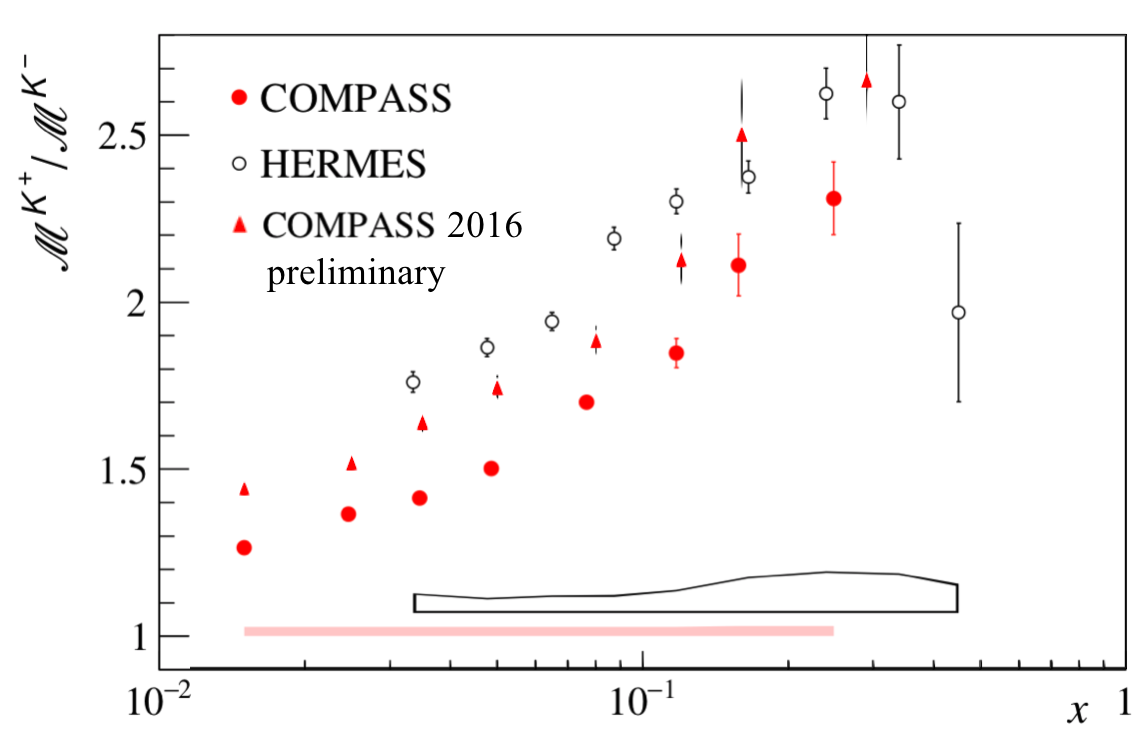
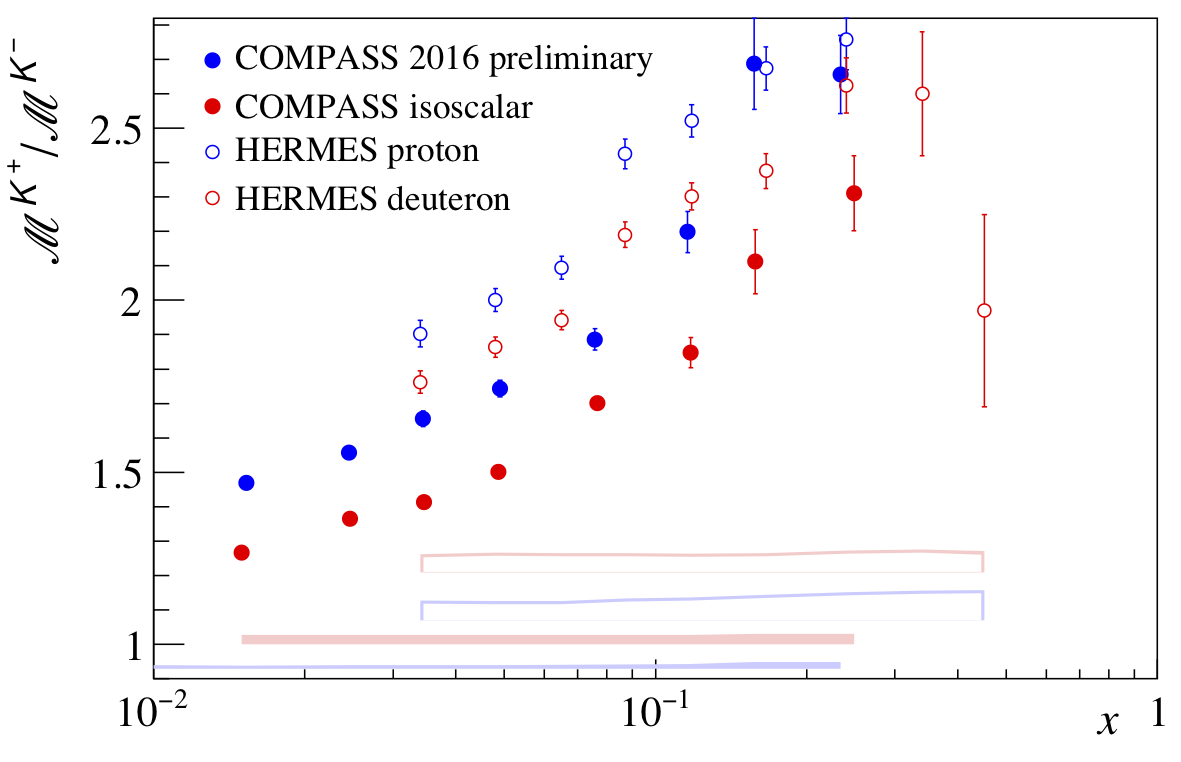
Fix.

diff --git a/ReleaseNote/ReleaseNote.tex b/ReleaseNote/ReleaseNote.tex
@@ -13,6 +13,7 @@
 \usepackage[margin=1in,letterpaper]{geometry} % decreases margins
 \usepackage{cite} % takes care of citations
 \usepackage[final]{hyperref} % adds hyper links inside the generated pdf file
+\usepackage{mathrsfs}
 \hypersetup{
 	colorlinks=true,       % false: boxed links; true: colored links
 	linkcolor=blue,        % color of internal links
@@ -99,7 +100,7 @@ The PHAST version used for this analysis is 8.001.
 	\item $\chi^2$ cut for a well reconstructed scattered muon track ($\chi^2$/ndf $<$ 10)
 	\item Z coordinate of the first measured hit of scattered muon $<$ 350 cm ($Z_{SM1}$)
 	\item Middle Trigger or Ladder Trigger or Outer Trigger or LAS trigger
-	\item $Q^2$ > 1 (GeV/c)$^2$
+	\item $Q^2$ $>$ 1 (GeV/c)$^2$
 	\item 0.1 $< y <$ 0.7
 	\item 5 $< W <$ 17
 	\item 0.004 $< x <$ 0.4
@@ -165,7 +166,7 @@ For reference this is half the statistic of 2006.
 
 The $\pi$, $K$ and $p$ particle identification (PID) is performed by the RICH detector.
 
-The method used for the RICH particle identification is described in this note\cite{RICH_NOTE}. The idea is the following : when a particle
+The method used for the RICH particle identification is described in ref\cite{RICH_NOTE}. The idea is the following : when a particle
 is detected, six likelihood functions are calculated ($\pi$, $K$, $p$, $e$, $\mu$ and the background) and are then
 compared to make the particle identification. The evaluation is done separately for pions, kaons and protons. The largest
 value corresponds to the maximal probability. The method is improved by looking further to $LH(2^{nd})$ which is the second
@@ -179,16 +180,16 @@ All $\pi$, $K$ and $p$ probabilities are needed for the unfolding.
   \item Pion selection
   \begin{itemize}
     \item $LH(\pi) > 0$
-    \item $LH(\pi) > LH(K)$, $LH(p)$ and $LH(bgd)$.
+    \item $LH(\pi) > LH(K)$, $LH(p)$ and $LH(bg)$.
     \item $\frac{LH(\pi)}{LH(2^{nd})}>1.02$
-    \item $\frac{LH(\pi)}{LH(bgd)}>2.02$
+    \item $\frac{LH(\pi)}{LH(bg)}>2.02$
   \end{itemize}
   \item Kaon selection
   \begin{itemize}
     \item $LH(K) > 0$
-    \item $LH(K) > LH(\pi)$, $LH(p)$ and $LH(bgd)$.
+    \item $LH(K) > LH(\pi)$, $LH(p)$ and $LH(bg)$.
     \item $\frac{LH(K)}{LH(2^{nd})}>1.08$
-    \item $\frac{LH(K)}{LH(bgd)}>2.08$
+    \item $\frac{LH(K)}{LH(bg)}>2.08$
   \end{itemize}
   \item Proton selection
   Three cases are considered depending on the momentum $p_{h}$ of the particle and are defined but the kaon threshold ($\simeq 8.9$ GeV/c)
@@ -211,7 +212,7 @@ All $\pi$, $K$ and $p$ probabilities are needed for the unfolding.
     \item $p_{h} >$ proton threshold + 5 GeV/c
     \begin{itemize}
       \item $LH(p) > 0$
-      \item $LH(p) > LH(\pi)$, $LH(K)$ and $LH(bgd)$.
+      \item $LH(p) > LH(\pi)$, $LH(K)$ and $LH(bg)$.
       \item $\frac{LH(p)}{LH(2^{nd})}>1$
     \end{itemize}
     \item Proton threshold - 5 GeV/c $< p_{h} <$ proton threshold + 5 GeV/c
@@ -232,7 +233,7 @@ this evaluation is presented through RICH performance matrices, $M_{RICH}$, binn
 and angle :
 
 \begin{itemize}
-  \item $p_h$ \{3,12,13,15,17,19,22,25,27,30,35,40\} GeV/c
+  \item $p_h$ \{12,13,15,17,19,22,25,27,30,35,40\} GeV/c
   \item $\theta$ \{0.01,0.04,0.12\} rad
 \end{itemize}
 
@@ -259,7 +260,7 @@ T_p
 \end{equation}
 
 The coefficients of the $M_{RICH}$, $\epsilon(t \rightarrow i)$, are the probabilities that a true hadron
-$t$ is identified as a hadron of type $i$. These probabilities have been determined as described in \ref{}.
+$t$ is identified as a hadron of type $i$. These probabilities have been determined as described in ref\cite{RICH_NOTE}.
 
 The true hadrons have obtained by inverting the performance matrices (Eq.\ref{richmat}) :
 
@@ -439,7 +440,7 @@ Monte Carlo study. Three Monte Carlo samples are produced based on different gen
 the same event reconstruction chain. For the diffractive vector meson samples, both exclusive events and events with diffractive dissociation of the
 proton are simulated. The $\rho^0$ sample includes nuclear effects (coherent production and nuclear absorption).
 
-The fraction of pions (resp. kaons) resulting from a diffractive $rho^0$ (resp. $\Phi$) is calculated in the same binning as the raw multiplicities as :
+The fraction of pions (resp. kaons) resulting from a diffractive $\rho^0$ (resp. $\Phi$) is calculated in the same binning as the raw multiplicities as :
 
 \begin{equation}
   \begin{split}
@@ -536,36 +537,64 @@ where $M_{1\gamma}$ denotes multiplicities obtained using the cross-section in t
 
 \subsection{Errors associated to the RICH unfolding}
 
-The RICH matrices are built using the statistical errors associated to the original probability matrix.
+The first stage of pion identification is based on the likelihood ratios : $LH(\pi)/LH(2^{nd})$ and $LH(\pi)/LH(bg)$. These cuts are optimized to minimize the
+pions misidentified as kaons. The systematic error associated to the selection of these cuts is performed varying the cuts around optimized values. Two sets of
+cuts \textit{loose} and \textit{severe} were used (see Table \ref{loose.severe})
+
+\begin{table}[!h]
+	\centering
+	\begin{tabular}{ccccccc}
+		\hline
+		 & \multicolumn{3}{c}{Loose} & \multicolumn{3}{c}{Severe} \\
+		\hline
+		 & $\pi$ & $K$ & $p(\bar{p})$ & $\pi$ & $K$ & $p(\bar{p})$ \\
+		\hline
+		$\frac{LH(\pi)}{LH(2^{nd})}$ & $> 1.00$ & $-$ & $-$ & $>1.06$ & $-$ & $-$ \\
+		$\frac{LH(\pi)}{LH(bg)}$ & $> 2.00$ & $-$ & $<2.3$ $(2.2)$ & $>2.04$ & $-$ & $<2.0$ $(1.9)$ \\
+		$\frac{LH(K)}{LH(2^{nd})}$ & $-$ & $>1.06$ & $-$ & $>-$ & $>1.10$ & $-$ \\
+		$\frac{LH(K)}{LH(bg)}$ & $-$ & $>2.00$ & $<3.0$ $(2.9)$ & $-$ & $>2.16$ & $<2.7$ $(2.6)$ \\
+		$\frac{LH(p)}{LH(2^{nd})}$ & $-$ & $>0.98$ & $-$ & $>-$ & $>1.06$ & $-$ \\
+		\hline
+	\end{tabular}
+  \caption{Set of loose and severe cuts to evaluate the RICH systematic errors.}
+  \label{loose.severe}
+\end{table}
+
+To evaluate the systematic error associated to the selection of the particle likelihood cuts, the particle identification is performed using the \textit{loose}
+and \textit{severe} sets of likelihood cuts and the corresponding RICH probability matrices and final multiplicities are extracted ($M^{h^{\pm},loose}_{raw}$
+and $M^{h^{\pm},severe}_{raw}$ respectively). The largest difference between $M^{h^{\pm},loose}_{raw}$ and $M^{h^{\pm},severe}_{raw}$ with the nominal
+multiplicity $M^{h^{\pm}}_{raw}$ is taken as an estimate of the systematic error :
 
 \begin{equation}
-M^{\pm}_{RICH}
-=
-\begin{bmatrix}
-\epsilon(\pi \rightarrow \pi)\pm\sigma_{\epsilon(\pi \rightarrow \pi)} & \epsilon(K \rightarrow \pi)\pm\sigma_{\epsilon(K \rightarrow \pi)} & \epsilon(p \rightarrow \pi)\pm\sigma_{\epsilon(p \rightarrow \pi)}\\
-\epsilon(\pi \rightarrow K)\pm\sigma_{\epsilon(\pi \rightarrow K)} & \epsilon(K \rightarrow K)\pm\sigma_{\epsilon(K \rightarrow K)} & \epsilon(p \rightarrow K)\pm\sigma_{\epsilon(p \rightarrow K)} \\
-\epsilon(\pi \rightarrow p)\pm\sigma_{\epsilon(\pi \rightarrow p)} & \epsilon(K \rightarrow p)\pm\sigma_{\epsilon(K \rightarrow p)} & \epsilon(p \rightarrow p)\pm\sigma_{\epsilon(p \rightarrow p)}
-\end{bmatrix}
+  \sigma^{RICH_{LH}}_{sys} = MAX(|M^{h^{\pm},loose}_{raw}-M^{h^{\pm}}_{raw}|,|M^{h^{\pm},severe}_{raw}-M^{h^{\pm}}_{raw}|)
 \end{equation}
 
-As an inversion of the probabilities matrices is done in the analysis, the propagation of errors through the
-inversion operation has to be performed. A calculation of the uncertainties on the probabilities yields \cite{} :
+The difference between the altered RICH probability matrices and the optimal one are plotted in Fig.\ref{}. For pions and protons, the largest differences
+($<$5\%) are observed in the high momentum $p_h$ region. For kaons the difference reaches 4\% at low $p_h$ ; small differences ($<$1\%) are observed at the
+highest $p_h$ value.
+
+A second source of systematic error is that associated with the calculation of the RICH probability matrices. This is estimated by generating two sets of altered
+RICH probability matrices. As represented in Eq.\ref{StatMat} the matrices are constructe using the statistical error associated to the original probability matrix elements.
 
 \begin{equation}
-  [\sigma^{-1}_i]^2 = \epsilon^{-1}_{ip}\epsilon^{-1}_{ir}cov(\epsilon_{pq},\epsilon_{rs})\epsilon^{-1}_{qi}\epsilon^{-1}_{si} + [\epsilon^{-1}_{ik}\sigma_k]^2
+  M^{\pm}_{RICH}
+  =
+  \begin{bmatrix}
+  P(\pi \rightarrow \pi)\pm\sigma_{P(\pi \rightarrow \pi)} & P(K \rightarrow \pi)\mp\sigma_{P(K \rightarrow \pi)} & P(p \rightarrow \pi)\mp\sigma_{P(p \rightarrow \pi)}\\
+  P(\pi \rightarrow K)\mp\sigma_{P(\pi \rightarrow K)} & P(K \rightarrow K)\pm\sigma_{P(K \rightarrow K)} & P(p \rightarrow K)\mp\sigma_{P(p \rightarrow K)} \\
+  P(\pi \rightarrow p)\mp\sigma_{P(\pi \rightarrow p)} & P(K \rightarrow p)\mp\sigma_{P(K \rightarrow p)} & P(p \rightarrow p)\pm\sigma_{P(p \rightarrow p)}
+  \end{bmatrix}
+	\label{StatMat}
 \end{equation}
 
-This equation leads to the inverse error matrices with associated statistical errors :
+The raw multiplicities $M^{h^{\pm},+}_{raw}$ and $M^{h^{\pm},-}_{raw}$ are then recalculated using the altered probability matrices. The largest difference between
+$M^{h^{\pm},+}_{raw}$ and $M^{h^{\pm},-}_{raw}$ with $M^{h^{\pm}}_{raw}$ is taken as the sytematic error :
 
 \begin{equation}
-[M^{\pm}_{RICH}]^{-1}
-=
-\begin{bmatrix}
-\epsilon^{-1}(\pi \rightarrow \pi)\pm\sigma^{-1}_{\epsilon(\pi \rightarrow \pi)} & \epsilon^{-1}(K \rightarrow \pi)\pm\sigma^{-1}_{\epsilon(K \rightarrow \pi)} & \epsilon^{-1}(p \rightarrow \pi)\pm\sigma^{-1}_{\epsilon(p \rightarrow \pi)}\\
-\epsilon^{-1}(\pi \rightarrow K)\pm\sigma^{-1}_{\epsilon(\pi \rightarrow K)} & \epsilon^{-1}(K \rightarrow K)\pm\sigma^{-1}_{\epsilon(K \rightarrow K)} & \epsilon^{-1}(p \rightarrow K)\pm\sigma^{-1}_{\epsilon(p \rightarrow K)} \\
-\epsilon^{-1}(\pi \rightarrow p)\pm\sigma^{-1}_{\epsilon(\pi \rightarrow p)} & \epsilon^{-1}(K \rightarrow p)\pm\sigma^{-1}_{\epsilon(K \rightarrow p)} & \epsilon^{-1}(p \rightarrow p)\pm\sigma^{-1}_{\epsilon(p \rightarrow p)}
-\end{bmatrix}
+  \sigma^{RICH_{stat}}_{sys} = MAX(|M^{h^{\pm},+}_{raw}-M^{h^{\pm}}_{raw}|,|M^{h^{\pm},-}_{raw}-M^{h^{\pm}}_{raw}|)
 \end{equation}
+
+The final systematic uncertainty associated to the particle identification and unfolding correction ($\sigma^{RICH}_{sys}$) is the largest value of $\sigma^{RICH_{stat}}_{sys}$ and $\sigma^{RICH_{LH}}_{sys}$. The error goes from $<$ 0.2\% at low $y$ for all $x$ and $z$ bins to $\sim$ 20\% for high $y$ and high $z$, where multiplicities are low.
 
 \subsection{Errors associated to acceptance (z-vertex dependence)}
 
@@ -623,9 +652,17 @@ The actual results are presented in Figs. \ref{Ks} and \ref{Kr}. The data are in
 \section{Release Material} \label{RM}
 
 \begin{figure}[H]
-	\includegraphics[scale=0.4]{./gfx/xQ2.png}
+	\centering
+	\includegraphics[scale=0.34]{./gfx/xQ2.png}
 	\caption{}
 	\label{xQ2}
+\end{figure}
+
+\begin{figure}[H]
+	\centering
+	\includegraphics[scale=0.34]{./gfx/RICH.png}
+	\caption{}
+	\label{RICH}
 \end{figure}
 
 \begin{sidewaysfigure}[p]
@@ -693,14 +730,16 @@ The actual results are presented in Figs. \ref{Ks} and \ref{Kr}. The data are in
 \end{figure}
 
 \begin{figure}[H]
-	\includegraphics[scale=0.38]{./gfx/Ks.png}
-	\caption{}
+	\centering
+	\includegraphics[scale=0.55]{./gfx/Ks.png}
+	\caption{$\mathscr{M}^{K^+}+\mathscr{M}^{K^-}$ versus $x$ for \textit{COMPASS} data (proton in blue and isoscalar in red, closed points) averaged over $y$ (0.1 to 0.7) and integrated over $z$ (0.2 to 0.85) and \textit{HERMES} data \cite{HERMES} (proton in blue and deuteron in red, open points) averaged over $y$ (0.1 to 0.85) and integrated over $z$ (0.2 to 0.8). All systematic errors, including the asymmetric systematic errors for radiative correction for \textit{COMPASS} isoscalar kaons (100\% error, determined by removing the hadronic radiative corrections), are shown point to point as a band.}
 	\label{Ks}
 \end{figure}
 
 \begin{figure}[H]
-	\includegraphics[scale=0.38]{./gfx/Kr.png}
-	\caption{}
+	\centering
+	\includegraphics[scale=0.55]{./gfx/Kr.png}
+	\caption{$\mathscr{M}^{K^+}/\mathscr{M}^{K^-}$ versus $x$ for \textit{COMPASS} data (proton in blue and isoscalar in red, closed points) averaged over $y$ (0.1 to O.7) and integrated over $z$ (0.2 to 0.85) and \textit{HERMES} data \cite{HERMES} (proton in blue and deuteron in red, open points) averaged over $y$ (0.1 to 0.85) and integrated over $z$ (0.2 to 0.8). All systematic errors, including the asymmetric systematic errors for radiative correction for \textit{COMPASS} isoscalar kaons (100\% error, determined by removing the hadronic radiative corrections), are shown point to point as a band.}
 	\label{Kr}
 \end{figure}
 
@@ -788,6 +827,8 @@ Finally for the multiplicity, including the diffractive $\Phi$ and $\rho^0$ corr
 % Note: with this approach it is YOUR responsibility to put them in order
 % of appearance.
 
+\newpage
+
 \begin{thebibliography}{99}
 
 \bibitem{COMPASS2006P}
@@ -810,6 +851,9 @@ S. V. Goloskokov and P. Kroll, \textit{The role of the quark and gluon GPDs in h
 
 \bibitem{Hepgen}
 A. Sandacz and P. Sznajder, \textit{HEPGEN - generator for hard exclusive leptoproduction}, arXiv:1207.0333 [hep-ph].
+
+\bibitem{HERMES}
+A. Airapetian et al., \textit{Multiplicities of charged pions and kaons from semi-inclusive deep-inelastic scattering by the proton and the deuteron}, Phys.Rev. D87 (2013) 074029.
 
 \end{thebibliography}
 
